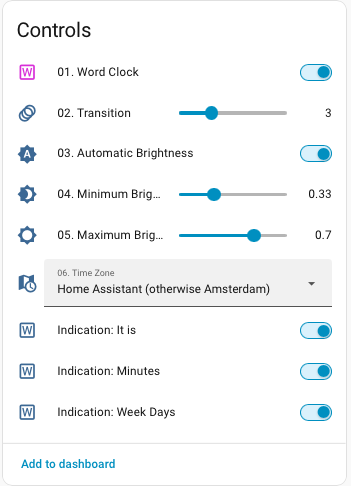
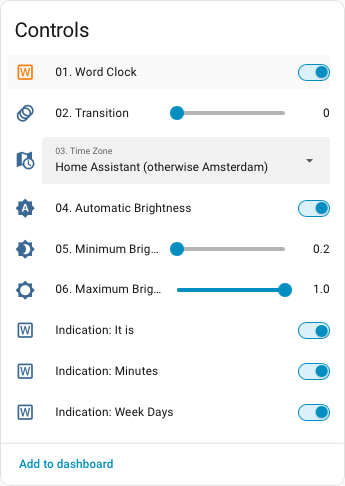
Update documentation

diff --git a/docs/assets/js/designer.js b/docs/assets/js/designer.js
@@ -79,7 +79,7 @@
 
   /* ---------- import and export ---------- */
 
-  // A design file: the grid (see WordClock.readLayout) plus the customer's
+  // A design file: the grid (see WordClock.readLayout) plus the user's
   // details and the layout revision.
   function importDesign(data) {
     var d = WC.readLayout(data);
@@ -389,8 +389,8 @@
     return (design.order ? 'order-' + slug(design.order) + '-' : '') + 'word-clock-design-r' + design.layoutRevision + '.json';
   }
 
-  // Download and email only with the customer's details, and once the
-  // customer confirms the design is final.
+  // Download and email only with the user's details, and once the
+  // user confirms the design is final.
   function validEmail(text) { return /^[^\s@]+@[^\s@]+\.[^\s@]+$/.test(text); }
 
   function missingDetail() {
@@ -543,7 +543,7 @@
   }
 
   function replaceDesign(next) {
-    // Keep the customer's name and order number when switching grids.
+    // Keep the user's name and order number when switching grids.
     next.customer = next.customer || design.customer;
     next.order = next.order || design.order;
     next.email = next.email || design.email;

diff --git a/docs/settings.md b/docs/settings.md
@@ -12,9 +12,9 @@ are saved on the clock and kept after a power cut.
 | --- | --- |
 | **01. Word Clock** | Switch the clock on or off, and set its colour and brightness (at least 20%). |
 | **02. Transition** | How long the fade between two times takes, from 0 to 10 seconds. |
-| **03. Automatic Brightness** | On: the brightness follows the light in the room. Off: the clock uses the brightness set under *01. Word Clock*. |
-| **04. Minimum Brightness** / **05. Maximum Brightness** | The range used by automatic brightness, from 0.2 (20%) to 1 (100%). |
-| **06. Time Zone** | *Home Assistant (otherwise Amsterdam)* follows the time zone of Home Assistant, and uses Amsterdam time without Home Assistant. Choose another region if you live elsewhere. Daylight saving time is applied automatically. |
+| **03. Time Zone** | *Home Assistant (otherwise Amsterdam)* follows the time zone of Home Assistant, and uses Amsterdam time without Home Assistant. Choose another region if you live elsewhere. Daylight saving time is applied automatically. |
+| **04. Automatic Brightness** | On: the brightness follows the light in the room. Off: the clock uses the brightness set under *01. Word Clock*. |
+| **05. Minimum Brightness** / **06. Maximum Brightness** | The range used by automatic brightness, from 0.2 (20%) to 1 (100%). |
 | **Indication: It is** | Show or hide the opening words, such as "IT IS". |
 | **Indication: Minutes** | Show or hide the four minute dots. |
 | **Indication: Week Days** | Show or hide the letter for the day of the week. |
@@ -31,20 +31,24 @@ device page:
 
 ## Setting up automatic brightness
 
-With **03. Automatic Brightness** on, the clock adjusts its brightness to the
+With **04. Automatic Brightness** on, the clock adjusts its brightness to the
 light in the room. It is dimmest in the dark and brightest in bright light,
 and fades smoothly in between. You choose both ends; the clock does the rest.
+
+A clock without a light sensor doesn't show **04. Automatic Brightness**,
+**05. Minimum Brightness** and **06. Maximum Brightness**. Set its brightness
+under **01. Word Clock**.
 
 Use the web page on your phone, so you can watch the clock while you adjust
 it. Each change shows on the clock within a second.
 
-1. Check that **03. Automatic Brightness** is on.
+1. Check that **04. Automatic Brightness** is on.
 2. **In the dark.** In the evening, switch off the lights so the room is as
    dark as it usually gets, and wait 15 seconds. Lower or raise
-   **04. Minimum Brightness** until the words are easy to read but don't
+   **05. Minimum Brightness** until the words are easy to read but don't
    light up the room.
 3. **In bright light.** During the day, when the room is at its brightest
-   (or with all lights on), wait 15 seconds. Set **05. Maximum Brightness**
+   (or with all lights on), wait 15 seconds. Set **06. Maximum Brightness**
    so the time is easy to read without being glaring.
 
 That's it. The clock measures the light every 15 seconds and fades to the new
@@ -54,12 +58,12 @@ it jump.
 {: .note }
 > - The clock never goes below 20% brightness. Dimmer than that, the LEDs
 >   can't show colours accurately anymore: orange, for example, would turn red.
-> - Too bright at night? Lower **04. Minimum Brightness**. Too dim during the
->   day? Raise **05. Maximum Brightness**.
+> - Too bright at night? Lower **05. Minimum Brightness**. Too dim during the
+>   day? Raise **06. Maximum Brightness**.
 > - The maximum can't be lower than the minimum: if you set one past the
 >   other, the other follows.
 > - With automatic brightness on, the clock ignores the brightness of
->   **01. Word Clock**. Switch **03. Automatic Brightness** off to set a fixed
+>   **01. Word Clock**. Switch **04. Automatic Brightness** off to set a fixed
 >   brightness there instead.
 
 ## Time zones

diff --git a/docs/index.md b/docs/index.md
@@ -77,7 +77,8 @@ or in Home Assistant.
 - Time in words to the nearest five minutes, with four minute dots for the
   minutes in between.
 - Letter for the day of the week.
-- Automatic brightness from the built-in light sensor, or a fixed brightness.
+- Automatic brightness from the built-in light sensor (if your clock has
+  one), or a fixed brightness.
 - Smooth fade between times.
 - Any colour, set from the web page or Home Assistant.
 - Time from an internet time server, or from Home Assistant if you use it,

diff --git a/docs/troubleshooting.md b/docs/troubleshooting.md
@@ -60,7 +60,7 @@ We can't give you a clock's key: only the Home Assistant that set it knows it.
 
 ## The time is off by one or more hours
 
-Check **06. Time Zone** under [Settings](settings.html). Without Home
+Check **03. Time Zone** under [Settings](settings.html). Without Home
 Assistant the clock uses Amsterdam time; choose your region there if you live
 elsewhere. With Home Assistant and *Home Assistant (otherwise Amsterdam)*,
 check the time zone in Home Assistant under **Settings → System → General**.

diff --git a/docs/getting-started.md b/docs/getting-started.md
@@ -48,7 +48,7 @@ instead. Add a bookmark, so you can find it again later.
 ![The clock's web page with its settings, update buttons and information]({{ '/images/web-page.png' | relative_url }}){: .screenshot }
 
 The clock uses Amsterdam time unless Home Assistant sets another time zone.
-Live elsewhere? Choose your region under **06. Time Zone**. See
+Live elsewhere? Choose your region under **03. Time Zone**. See
 [Settings](settings.html) for what each setting does.
 
 ## 4. Optional: Home Assistant

diff --git a/docs/home-assistant.md b/docs/home-assistant.md
@@ -44,7 +44,7 @@ The clock then has its own device page with all its settings (see
 
 Home Assistant sends the clock the time and its time zone. Home Assistant
 2026.3 or newer is needed for the time zone. With an older version, choose the
-time zone on the clock under **06. Time Zone**.
+time zone on the clock under **03. Time Zone**.
 
 ## Removing the clock or giving it away
 
